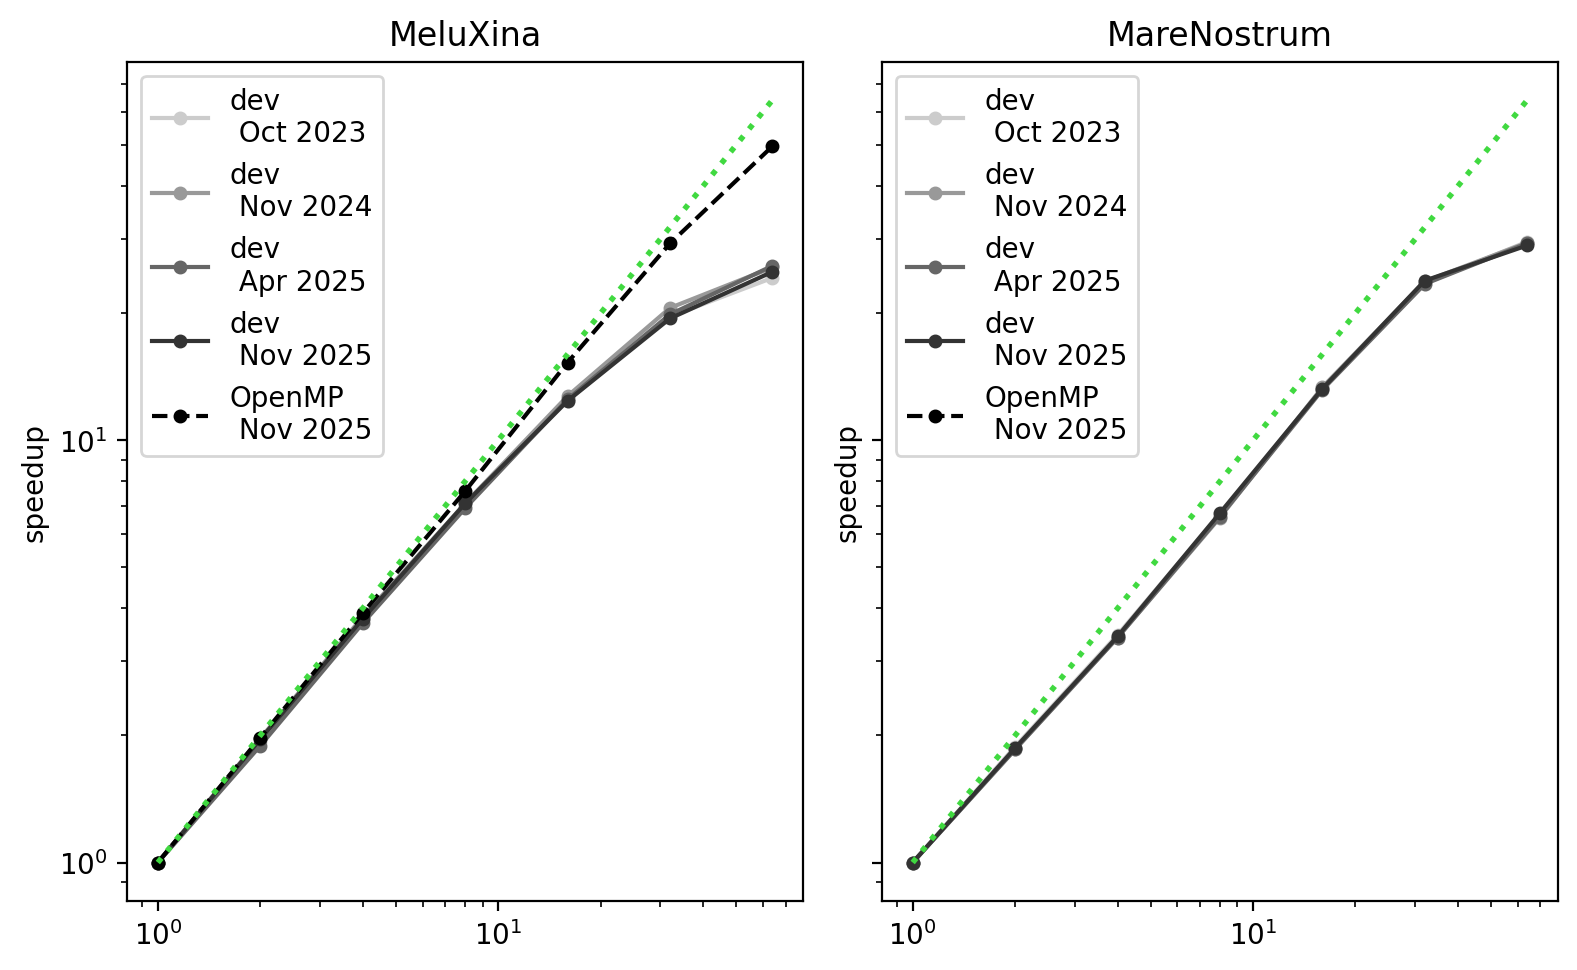
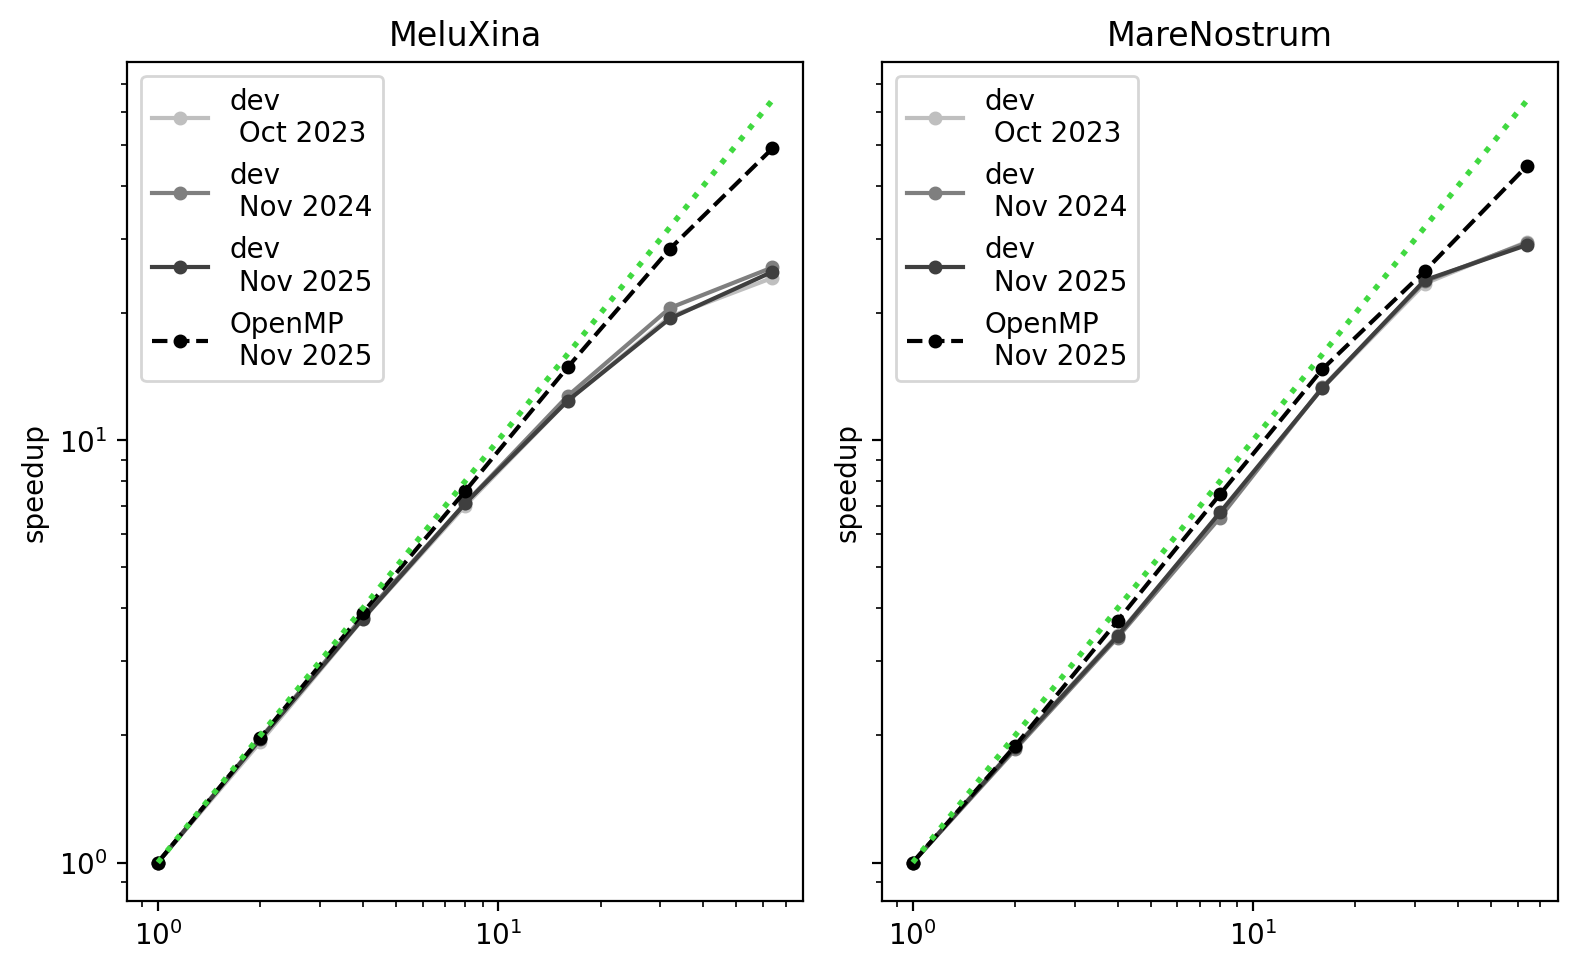
update deliverables and presentations dec 2025

diff --git a/analysis/report_SPACE.py b/analysis/report_SPACE.py
@@ -37,14 +37,72 @@ def load_data_openmp(test, cluster='meluxina', timer='total'):
 
     return data, mapping_commits
 
+
+# D 1.6: Finished openmp for SEDOV and COSMO
+def load_data_openmp_d16(test, cluster='meluxina', timer='total'):
+    bench_home = '/home/tcolman/Dropbox/SPACE/DATA_ARCHIVE'
+
+    data = []
+
+    # hack to get plot for meluxina cosmo
+    #data = add_data(data, bench_home+'/'+cluster+'/'+'benchmark_dev_456b33e2', test, which=timer, omp_nthr=[0])
+    #data = add_data(data, bench_home+'/'+cluster+'/'+'benchmark_openmp_5560e020', test, which=timer, omp_nthr=[4])
+
+    # full openMP implemenation for cosmo, including poisson multigrid and particles
+    # corresponds to 990b027e on ramses_organisation
+    data = add_data(data, bench_home+'/'+cluster+'/'+'benchmark_openmp_5560e020', test, which=timer)
+
+    return data
+
 if __name__ == '__main__':
+
+    ''' Sedov timers:
+    hydro-godunov         &  courant
+    hydro-setunew        &  hydro-setuold  
+    hydro-revghostzones  &  hydro-ghostzones '''
+
+    ''' Cosmo timers:
+    coarse levels        & courant
+    particles-maketree   &  particles-killtree
+    particles-synchro    &  particles-move
+    poisson-savephi      &  poisson-phimultigrid
+    poisson-rho          &  poisson-force   '''
 
     # ---- D2.6 ----
 
-    #data, mapping_commits = load_data_cpu_progress_D26('sedov','meluxina','hydro-godunov')
+    #data = load_data_cpu_progress_D26('sedov','meluxina','hydro-godunov')
     #make_table_cpu_speedup(data, reso='1024', arr_nodes=[1,2,4,8,16,32,64])
 
     #particles, poisson-savephi, poisson-rho, poisson-phimultigrid, poisson-force
-    data, mapping_commits = load_data_openmp('cosmo','meluxina','poisson-phimultigrid')
+    #data = load_data_openmp('cosmo','meluxina','poisson-phimultigrid')
+    #make_table_openmp(data, reso='1024', arr_nodes=[1,2,4,8,16,32,64])
+    #make_plot_openmp(data, reso='1024', arr_nodes=[1,2,4,8,16,32,64], outname='scaling_openmp_cosmo_phimultigrid.png')
+
+    # ---- D1.6 and D2.7 (Dec 2025) ----
+    #data = load_data_openmp_d16('sedov','marenostrum','total')
+    #make_table_openmp(data, reso='1024', arr_nodes=[1,2,4,8,16,32,64])
+    #make_plot_openmp(data, reso='1024', arr_nodes=[1,2,4,8,16,32,64],
+    #                 outname='../results/images/openmp_strong_scaling_sedov_marenostrum.png',
+    #                 title='Sedov on MareNostrum')
+    #make_plot_openmp_weak_scaling(data, resos=['512','1024','2048'], arr_nodes=[1,8,64],
+    #                 outname='../results/images/openmp_weak_scaling_sedov_marenostrum.png')
+    
+    #data = load_data_openmp_d16('sedov','meluxina','hydro-ghostzones')
+    #make_table_openmp(data, reso='1024', arr_nodes=[1,2,4,8,16,32,64])
+    #make_plot_openmp(data, reso='1024', arr_nodes=[1,2,4,8,16,32,64],
+    #                 outname='../results/images/openmp_strong_scaling_sedov_meluxina.png',
+    #                 title='Sedov on MeluXina')
+
+    #data = load_data_openmp_d16('cosmo','marenostrum','total')
+    #make_table_openmp(data, reso='1024', arr_nodes=[1,2,4,8,16,32,64])
+    #make_plot_openmp(data, reso='1024', arr_nodes=[1,2,4,8,16,32,64],
+    #                 outname='../results/images/openmp_strong_scaling_cosmo_marenostrum.png',
+    #                 title='Cosmo on MareNostrum')
+    
+    data = load_data_openmp_d16('cosmo','meluxina','total')
     make_table_openmp(data, reso='1024', arr_nodes=[1,2,4,8,16,32,64])
-    make_plot_openmp(data, reso='1024', arr_nodes=[1,2,4,8,16,32,64], outname='scaling_openmp_cosmo_phimultigrid.png')
+    make_plot_openmp(data, reso='1024', arr_nodes=[1,2,4,8,16,32,64],
+                     outname='../results/images/openmp_strong_scaling_cosmo_meluxina.png',
+                     title='Cosmo on MeluXina')
+
+

diff --git a/analysis/visualisation.py b/analysis/visualisation.py
@@ -282,8 +282,8 @@ def plot_weak_scaling_compare(data, mapping_commits, arr_nodes_in, resos, input_
 ''' Plot the strong scaling for MPI+OpenMP versus MPI-only'''
 def make_plot_openmp(data, reso, arr_nodes, outname='scaling_openmp.png', title=None):
 
-    #labels=['MPI only', 'MPI + 2 OpenMP','MPI + 4 OpenMP','MPI + 8 OpenMP']
-    labels=['MPI only', 'MPI + 4 OpenMP']
+    labels=['MPI only', 'MPI + 2 OpenMP','MPI + 4 OpenMP','MPI + 8 OpenMP']
+    #labels=['MPI only', 'MPI + 4 OpenMP']
 
     # create colors
     cmap = plt.get_cmap('Greens')
@@ -296,7 +296,7 @@ def make_plot_openmp(data, reso, arr_nodes, outname='scaling_openmp.png', title=
     fig, axes = plt.subplots(nrows=1, ncols=1, figsize=(4.5,4.5))
 
     ref_value = 1
-    for omp,lab,col in zip([0,4],labels,colorVals):
+    for omp,lab,col in zip([0,2,4,8],labels,colorVals):
         times = []
         for nodes in arr_nodes:
             for entry in data:
@@ -368,6 +368,58 @@ def make_table_openmp(data, reso, arr_nodes):
         print(space_report_string)
 
     print('scaling efficiencity at', arr_nodes[-1], 'nodes:', ref/times[1]/arr_nodes[-1])
+
+''' Plot the strong scaling for MPI+OpenMP versus MPI-only'''
+def make_plot_openmp_weak_scaling(data, resos, arr_nodes, outname='scaling_openmp.png'):
+
+    labels=['MPI only', 'MPI + 2 OpenMP','MPI + 4 OpenMP','MPI + 8 OpenMP']
+
+    # create colors
+    cmap = plt.get_cmap('Greens')
+    cNorm  = colorsx.Normalize(vmin=0.25, vmax=3.75)
+    colorVals = {}
+    colorVals = [(0.1,0.1,0.7)]
+    for val in [1,2,3]:
+        colorVals.append(cmap(cNorm(val)))
+
+    fig, axes = plt.subplots(nrows=1, ncols=1, figsize=(4.5,4.5))
+
+    ref_value = 1
+    for omp,lab,col in zip([0,2,4,8],labels,colorVals):
+        nodes = 1
+        times = []
+        for nodes,reso in zip(arr_nodes,resos):
+            for entry in data:
+                if entry['resolution']!=reso:
+                    continue
+                if entry['nodes']!=nodes:
+                    continue
+                if entry['omp_threads']!=omp:
+                    continue
+                # reduce time data
+                time, error_min, error_max = process_times(entry['timings'])
+                times.append(float(time))
+                if omp==0 and nodes==1:
+                    ref_value=float(time)
+
+        print(times)
+        eff = np.array(times[0])/np.array(times)
+        print(eff)
+        axes.plot(arr_nodes,eff,label=lab,color=col,marker='o',markersize=3)
+
+    axes.plot(arr_nodes,np.ones(len(arr_nodes)),color='black',lw=1,ls='--')
+
+    axes.set_xscale('log')
+    axes.set_yscale('log')
+    axes.set_xlabel('nodes')
+    axes.set_ylabel('spefficiencyeedup')
+    axes.set_xticks([])
+    axes.set_xticks([],minor=True)
+    axes.set_xticks(arr_nodes, labels=arr_nodes)
+    axes.set_xlim([min(arr_nodes), max(arr_nodes)])
+    axes.legend()
+    plt.savefig(outname, bbox_inches='tight', dpi=300)
+    plt.close()
 
 ''' make a simple strong scaling plot of a benchmark'''
 def plot_strong_scaling(axes, data, reso):

diff --git a/analysis/eurohpc_dashboard.py b/analysis/eurohpc_dashboard.py
@@ -40,22 +40,27 @@ def load_data_dev_branch(test, cluster='meluxina', timer='total'):
     mapping_commits['8c72f569'] = 'dev\n Nov 2024' #'starting\n reference'
 
     # DEV Reference of public ramses version, after clean up etc (Apr 16, 2025)
-    data = add_data(data, bench_home+'/'+cluster+'/'+'benchmark_dev_9c518f8a', test, which=timer)
-    data = add_data(data, bench_home+'/'+cluster+'/'+'benchmark_HEAD_9c518f8a', test, which=timer)
-    mapping_commits['9c518f8a'] = 'dev\n Apr 2025'
+    #data = add_data(data, bench_home+'/'+cluster+'/'+'benchmark_dev_9c518f8a', test, which=timer)
+    #data = add_data(data, bench_home+'/'+cluster+'/'+'benchmark_HEAD_9c518f8a', test, which=timer)
+    #mapping_commits['9c518f8a'] = 'dev\n Apr 2025'
 
     # nbor optims
     #data = add_data(data, bench_home+'/'+cluster+'/'+'benchmark_refactor_3cube_nbor_utils_e3a620c3', test, which=timer)
     #mapping_commits['e3a620c3'] = 'nbor\n optims'
 
     # DEV Reference of public ramses version, SNO meeting 2025
-    data = add_data(data, bench_home+'/'+cluster+'/'+'benchmark_dev_456b33e2', test, which=timer)
+    data = add_data(data, bench_home+'/'+cluster+'/'+'benchmark_dev_456b33e2', test, which=timer, omp_nthr=[0])
     mapping_commits['456b33e2'] = 'dev\n Nov 2025'
 
     # OPENMP Reference of public ramses version, SNO meeting 2025
     # full openMP implemenation for cosmo, including poisson multigrid and particles
-    data = add_data(data, bench_home+'/'+cluster+'/'+'benchmark_openmp_2b1a9794', test, which=timer, omp_nthr=4)
-    mapping_commits['2b1a9794'] = 'OpenMP\n Nov 2025'
+    #BUGGED in make_tree_fine
+    #data = add_data(data, bench_home+'/'+cluster+'/'+'benchmark_openmp_2b1a9794', test, which=timer, omp_nthr=[4])
+    #mapping_commits['2b1a9794'] = 'OpenMP\n Nov 2025'
+
+    # FIX openmp
+    data = add_data(data, bench_home+'/'+cluster+'/'+'benchmark_openmp_5560e020', test, which=timer, omp_nthr=[8])
+    mapping_commits['5560e020'] = 'OpenMP\n Nov 2025'
 
     return data, mapping_commits
 
